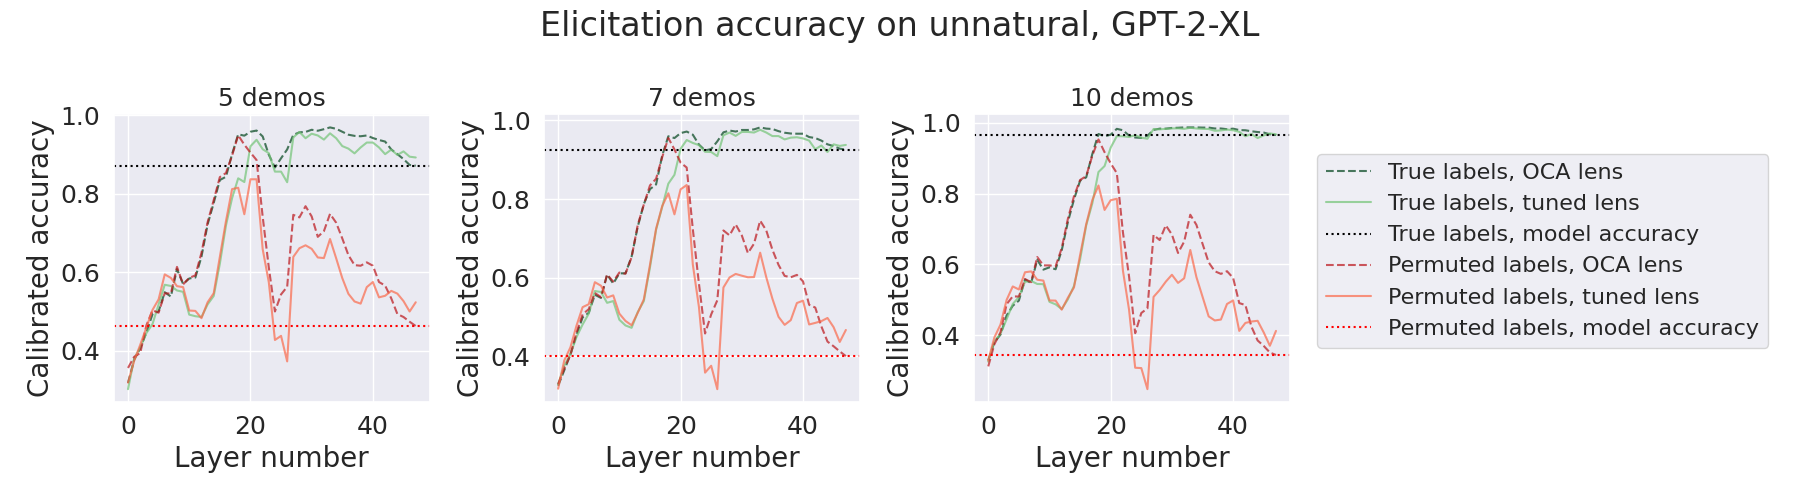
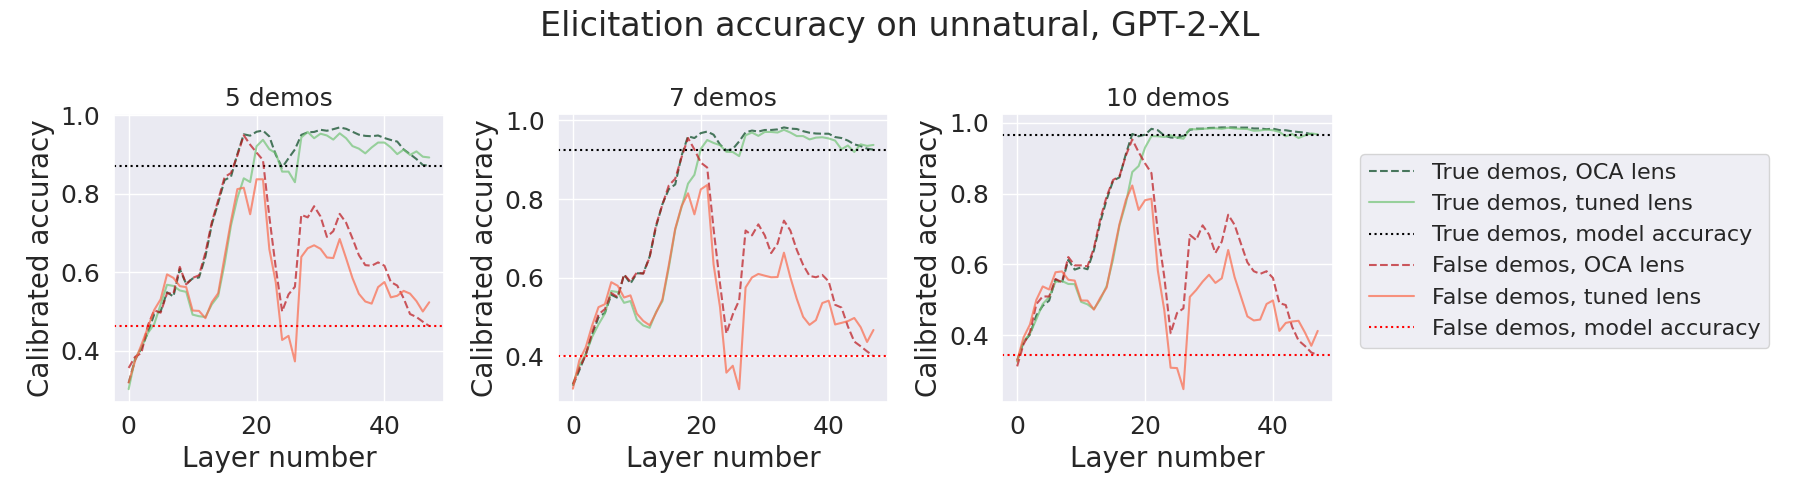
labelling

diff --git a/lens_truthfulness.py b/lens_truthfulness.py
@@ -200,13 +200,13 @@ def plot_figure(data, dataset_name, demos, string_labels=False):
                 sns.lineplot(
                     x=np.arange(yvals.shape[0]),
                     y=yvals,
-                    label=f"{label_mode}, {lens_captions[lens_name]} lens",
+                    label=f"{label_mode}, {lens_captions[lens_name]} lens".replace("labels", "demos").replace("Permuted", "False"),
                     ax=axes[ax_idx],
                     color=lineshades[label_mode][j],
                     linestyle="solid" if lens_name == "tuned" else "dashed",
                     alpha=0.7
                 )
-            axes[ax_idx].axhline(y=data[n_demos][label_mode]['modal'][-1], color="black" if label_mode == "True labels" else "red", linestyle="dotted", label=f"{label_mode}, model accuracy")
+            axes[ax_idx].axhline(y=data[n_demos][label_mode]['modal'][-1], color="black" if label_mode == "True labels" else "red", linestyle="dotted", label=f"{label_mode}, model accuracy".replace("labels", "demos").replace("Permuted", "False"))
         axes[ax_idx].set(ylabel="Calibrated accuracy", xlabel="Layer number")
         axes[ax_idx].set_title(n_demos if string_labels else f"{n_demos} demos")
         axes[ax_idx].get_legend().remove()
@@ -408,7 +408,7 @@ for ax_idx, dataset_name in enumerate(agg_data):
             sns.lineplot(
                 x=np.arange(yvals.shape[0]),
                 y=yvals,
-                label=f"{label_mode}\n {lens_captions[lens_name]} lens",
+                label=f"{label_mode}\n {lens_captions[lens_name]} lens".replace("labels", "demos").replace("Permuted", "False"),
                 color=lineshades[label_mode][j],
                 linestyle="solid" if lens_name == "tuned" else "dashed",
                 alpha=0.7
